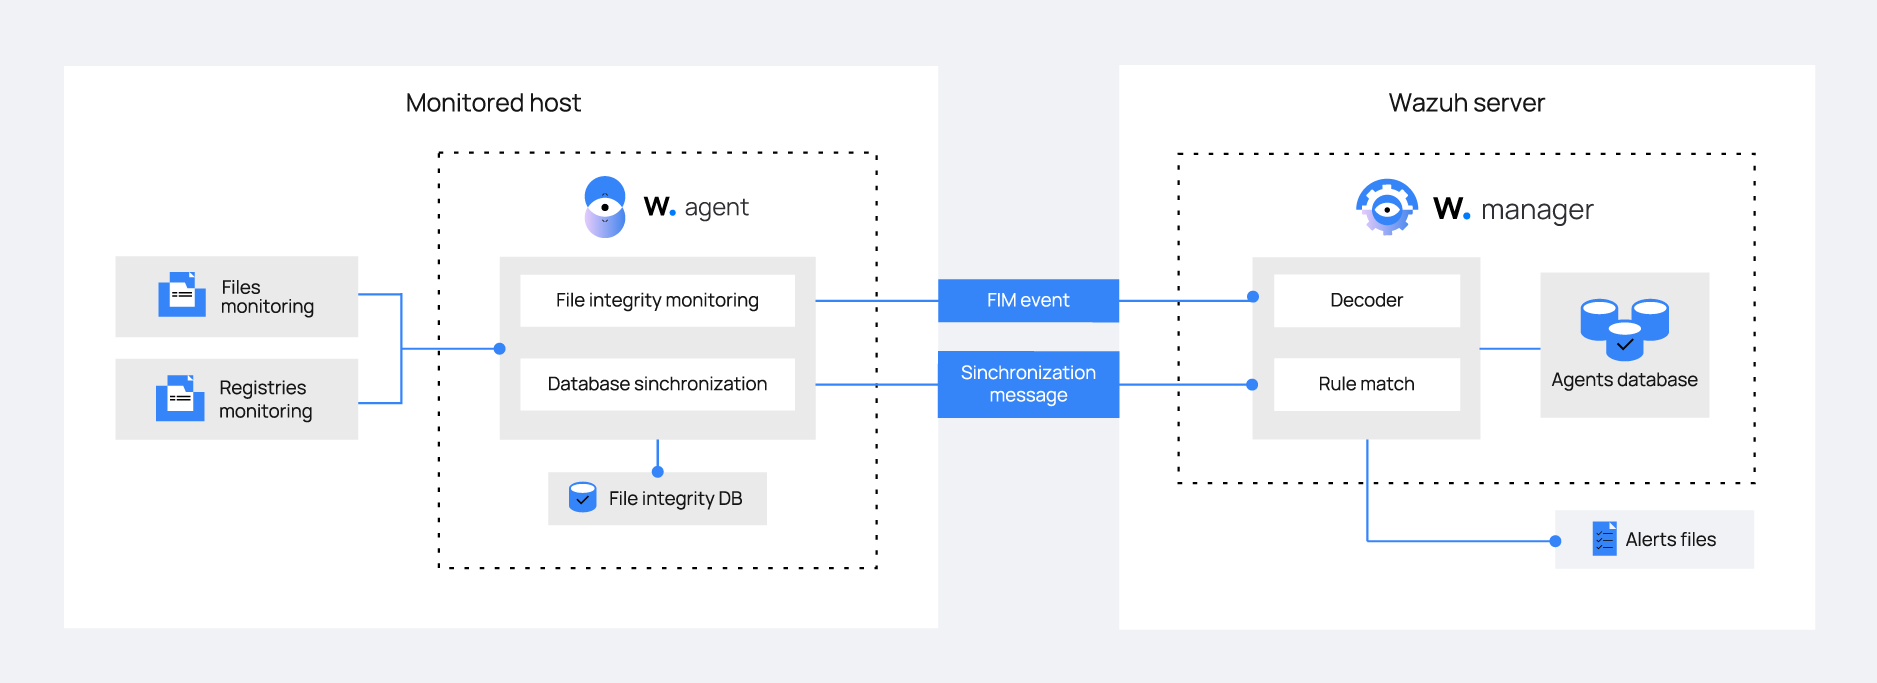
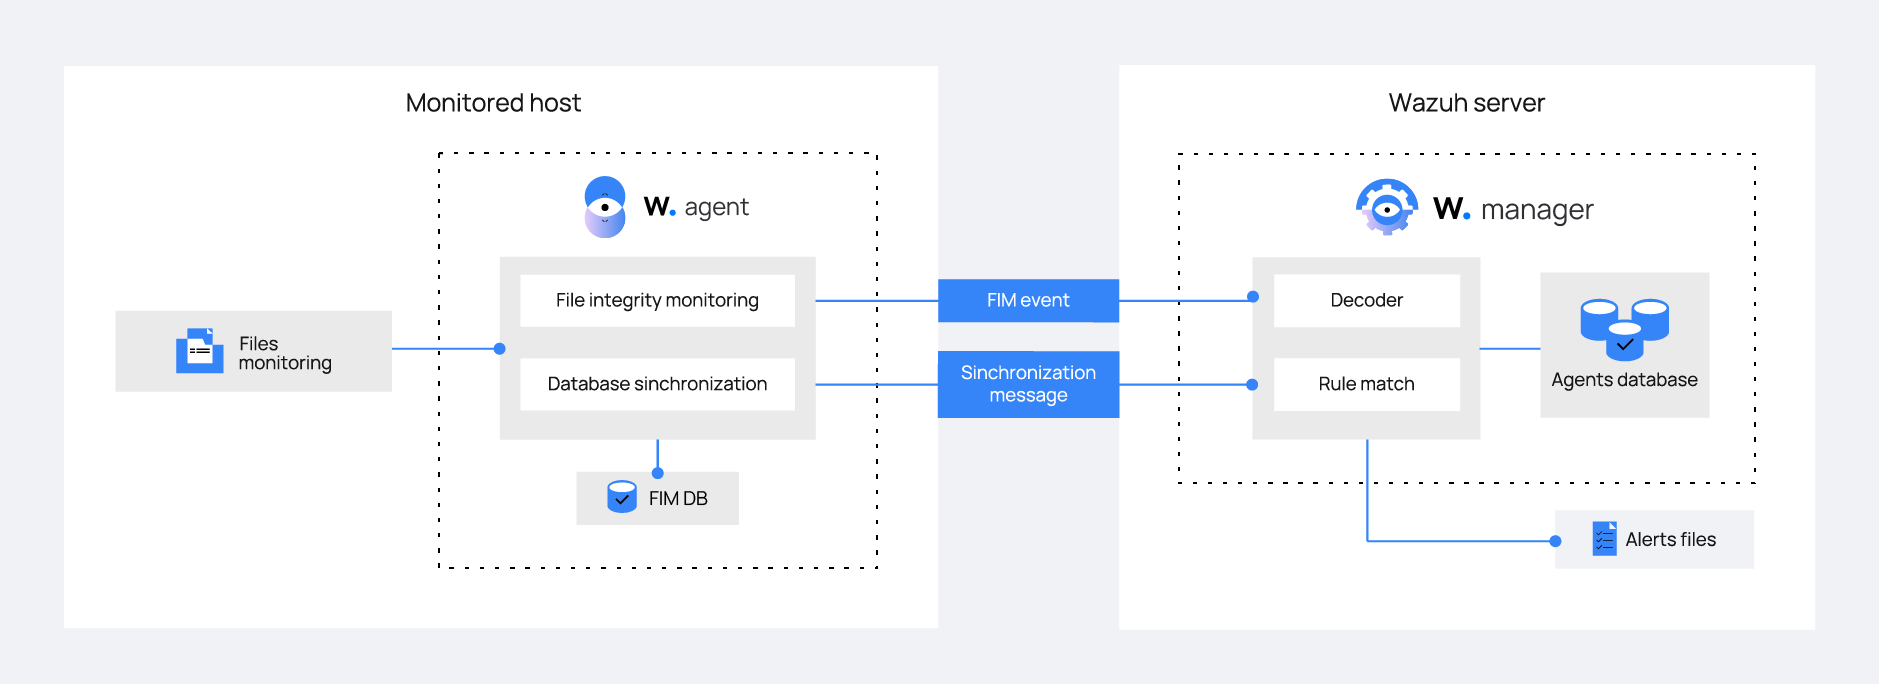
FIM index and How it works

diff --git a/source/user-manual/capabilities/file-integrity/how-it-works.rst b/source/user-manual/capabilities/file-integrity/how-it-works.rst
@@ -6,62 +6,24 @@
 How it works
 ============
 
-Since v3.12.0, Wazuh has used the new FIM module. To learn about the functionality of the FIM used in the previous Wazuh releases, please refer to the corresponding version of the documentation.
+The FIM module runs periodic scans on specific paths and monitors specific directories for changes in real time. You can set which paths to monitor in the configuration of the Wazuh agents and manager.
+
+FIM stores the files checksums and other attributes in a local FIM database. Upon a scan, the Wazuh agent reports any changes the FIM module finds in the monitored paths to the Wazuh server. The FIM module looks for file modifications by comparing the checksums of a file to its stored checksums and attribute values. It generates an alert if it finds discrepancies.
+
+The Wazuh FIM module uses two databases to collect FIM event data, such as file creation, modification, and deletion data. One is a local SQLite-based database on the monitored endpoint that stores the data in: 
+
+- ``C:\Program Files (x86)\ossec-agent\queue\fim\db`` on Windows.
+- ``/var/ossec/queue/fim/db`` on Linux.
+- ``/Library/Ossec/queue/fim/db`` on macOS. 
+
+The other is an agent database on the Wazuh server. The :doc:`wazuh-db </user-manual/reference/daemons/wazuh-db>`. daemon creates and manages a database for each agent on the Wazuh server. It uses the ID of the agent to identify the database. This service stores the databases at ``/var/ossec/queue/db``.
 
 .. thumbnail:: ../../../images/manual/fim/fim-flow.png
   :title: File integrity monitoring
   :align: center
   :width: 100%
 
-The FIM module is located in the Wazuh agent, where it runs periodic scans of the system and stores the checksums and attributes of the monitored files and Windows registry keys in a local FIM database. The module looks for the modifications by comparing the new files’ checksums to the old checksums. All detected changes are reported to the Wazuh manager.
+The FIM module keeps the Wazuh agent and the Wazuh server databases synchronized with each other. It always updates the file inventory in the Wazuh server with the data available to  the Wazuh agent. An up-to-date Wazuh server database allows for servicing FIM-related API queries. The synchronization mechanism only updates the Wazuh server with information from the Wazuh agents such as checksums and file attributes that have changed. 
 
-The new FIM synchronization mechanism ensures the file inventory in the Wazuh manager is always updated with respect to the Wazuh agent, allowing for servicing of FIM-related API queries regarding the Wazuh agents. The FIM synchronization is based on periodic calculations of integrity between the Wazuh agent and the Wazuh manager databases, updating in the Wazuh manager only those files that are outdated, optimizing the data transfer of FIM. Anytime the modifications are detected in the monitored files and/or registry keys, an alert is generated.
+The Wazuh agent and manager have the FIM module enabled and :ref:`pre configured <reference_ossec_syscheck_default_configuration>` by default. However, we recommend that you review the configuration of your endpoints to ensure that you tailor the FIM settings, such as monitored paths, to your environment.
 
-An example alert generated by FIM looks as follow:
-
-.. code-block:: none
-		:class: output
-
-		** Alert 1540815355.847397: - ossec,syscheck,pci_dss_11.5,gpg13_4.11,gdpr_II_5.1.f,
-		2018 Oct 29 13:15:55 (ubuntu) 10.0.0.144->syscheck
-		Rule: 550 (level 7) -> 'Integrity checksum changed.'
-		File '/test/hello' checksum changed.
-		Old md5sum was: '2a4732b1de5db823e94d662d207b8fb2'
-		New md5sum is : '146c07ef2479cedcd54c7c2af5cf3a80'
-		Old sha1sum was: 'b89f4786dcf00fb1c4ddc6ad282ca0feb3e18e1b'
-		New sha1sum is : 'e1efc99729beb17560e02d1f5c15a42a985fe42c'
[2 lines of base64/hex data omitted]
-		Old modification time was: 'Mon Oct 29 13:15:19 2018', now it is 'Mon Oct 29 13:15:54 2018'
-		(Audit) User: 'root (0)'
-		(Audit) Login user: 'test (1000)'
-		(Audit) Effective user: 'root (0)'
-		(Audit) Group: 'root (0)'
-		(Audit) Process id: '26089'
-		(Audit) Process name: '/bin/nano'
-
-		Attributes:
-		- Size: 4
-		- Permissions: 100644
-		- Date: Mon Oct 29 13:15:54 2018
-		- Inode: 537259
-		- User: root (0)
-		- Group: root (0)
-		- MD5: 146c07ef2479cedcd54c7c2af5cf3a80
-		- SHA1: e1efc99729beb17560e02d1f5c15a42a985fe42c
-		- SHA256: a7998f247bd965694ff227fa325c81169a07471a8b6808d3e002a486c4e65975
-
-By default, each Wazuh agent has the syscheck enabled and preconfigured, but it is recommended to review and amend the configuration of the monitored host.
-
-File integrity monitoring results for the whole environment can be observed in the Wazuh dashboard in the *Overview > Integrity monitoring* section:
-
-.. thumbnail:: ../../../images/manual/fim/fim-kibana-overview-1.png
-  :title: Wazuh dashboard: Fim overview
-  :align: center
-  :width: 100%
-
-Due to the changes made on the newest FIM, only the Wazuh agents in versions starting from 3.12 will use the new functionality. The Wazuh agents below that version will keep reporting syscheck scan results as in the older versions. If the Wazuh agent is upgraded to v3.12 and keeps its old configuration, will still use the new FIM module and the default synchronization settings.
-
-After the Wazuh agent service restart, the FIM database is cleared. Changes in the monitored directories done while the service is not running will not be reported to the Wazuh manager. The same will happen to the changes that occur after the last scan and before the restart. The synchronization will not take place on the directories that are not monitored with the ``realtime`` or with the ``whodata``.
-
-The following document contains examples for most of FIM use cases: :ref:`configuring FIM <fim-examples>`.

diff --git a/source/user-manual/capabilities/file-integrity/index.rst b/source/user-manual/capabilities/file-integrity/index.rst
@@ -8,7 +8,26 @@
 File integrity monitoring
 ==========================
 
-Wazuh File integrity monitoring (FIM) system watches selected files and triggers alerts when these files are modified. The component responsible for this task is called ``syscheck``. This component stores the cryptographic checksum and other attributes of files or Windows registry keys and regularly compares them with the current files being used by the system, watching for changes.
+File Integrity Monitoring (FIM) is a security process used to monitor the integrity of system and application files. FIM is an important security defense layer for any organization monitoring sensitive assets. It provides protection for sensitive data, application, and device files by monitoring, routinely scanning, and verifying their integrity. It helps organizations detect changes to critical files on their systems which reduces the risk of data being stolen or compromised. This process can save time and money in lost productivity, lost revenue, reputation damage, and legal and regulatory compliance penalties.
+
+Wazuh has a built-in capability for file integrity monitoring. The Wazuh FIM module monitors files and directories and triggers an alert when a user or process creates, modifies, and deletes monitored files. It runs a baseline scan, storing the cryptographic checksum and other attributes of the monitored files. When a user or process changes a file, the module compares its checksum and attributes to the baseline. It triggers an alert if it finds a mismatch. The FIM module performs real-time and scheduled scans depending on the FIM configuration for agents and manager. 
+
+Some benefits of the Wazuh FIM capability include change management, threat detection and response, and regulatory compliance as follows.  
+
+Change management
+-----------------
+
+The Wazuh FIM capability is an essential tool for verifying that the change management processes are working correctly. This Wazuh capability allows you to examine files to see if they change, how and when they change, and who or what changes them. The Wazuh FIM module compares the baseline information against the information of latest version of the file. This comparison provides visibility into alterations and updates of critical files. For example, you can use this to detect incorrect updates to applications or unauthorized changes made to configuration files.
+
+Threat detection and response
+-----------------------------
+
+You can combine FIM with other Wazuh capabilities for threat detection and response. The FIM capability monitors file integrity, detects permission changes, and monitors user and file activities. It provides detailed alerts for quick responses to detected threats.
+
+Regulatory compliance
+---------------------
+
+The FIM capability helps organizations meet regulatory requirements for data security, privacy, and data retention. Monitoring critical files for changes is an important requirement for regulations such as PCI DSS, HIPAA, and GDPR. 
 
 .. topic:: Contents
 
